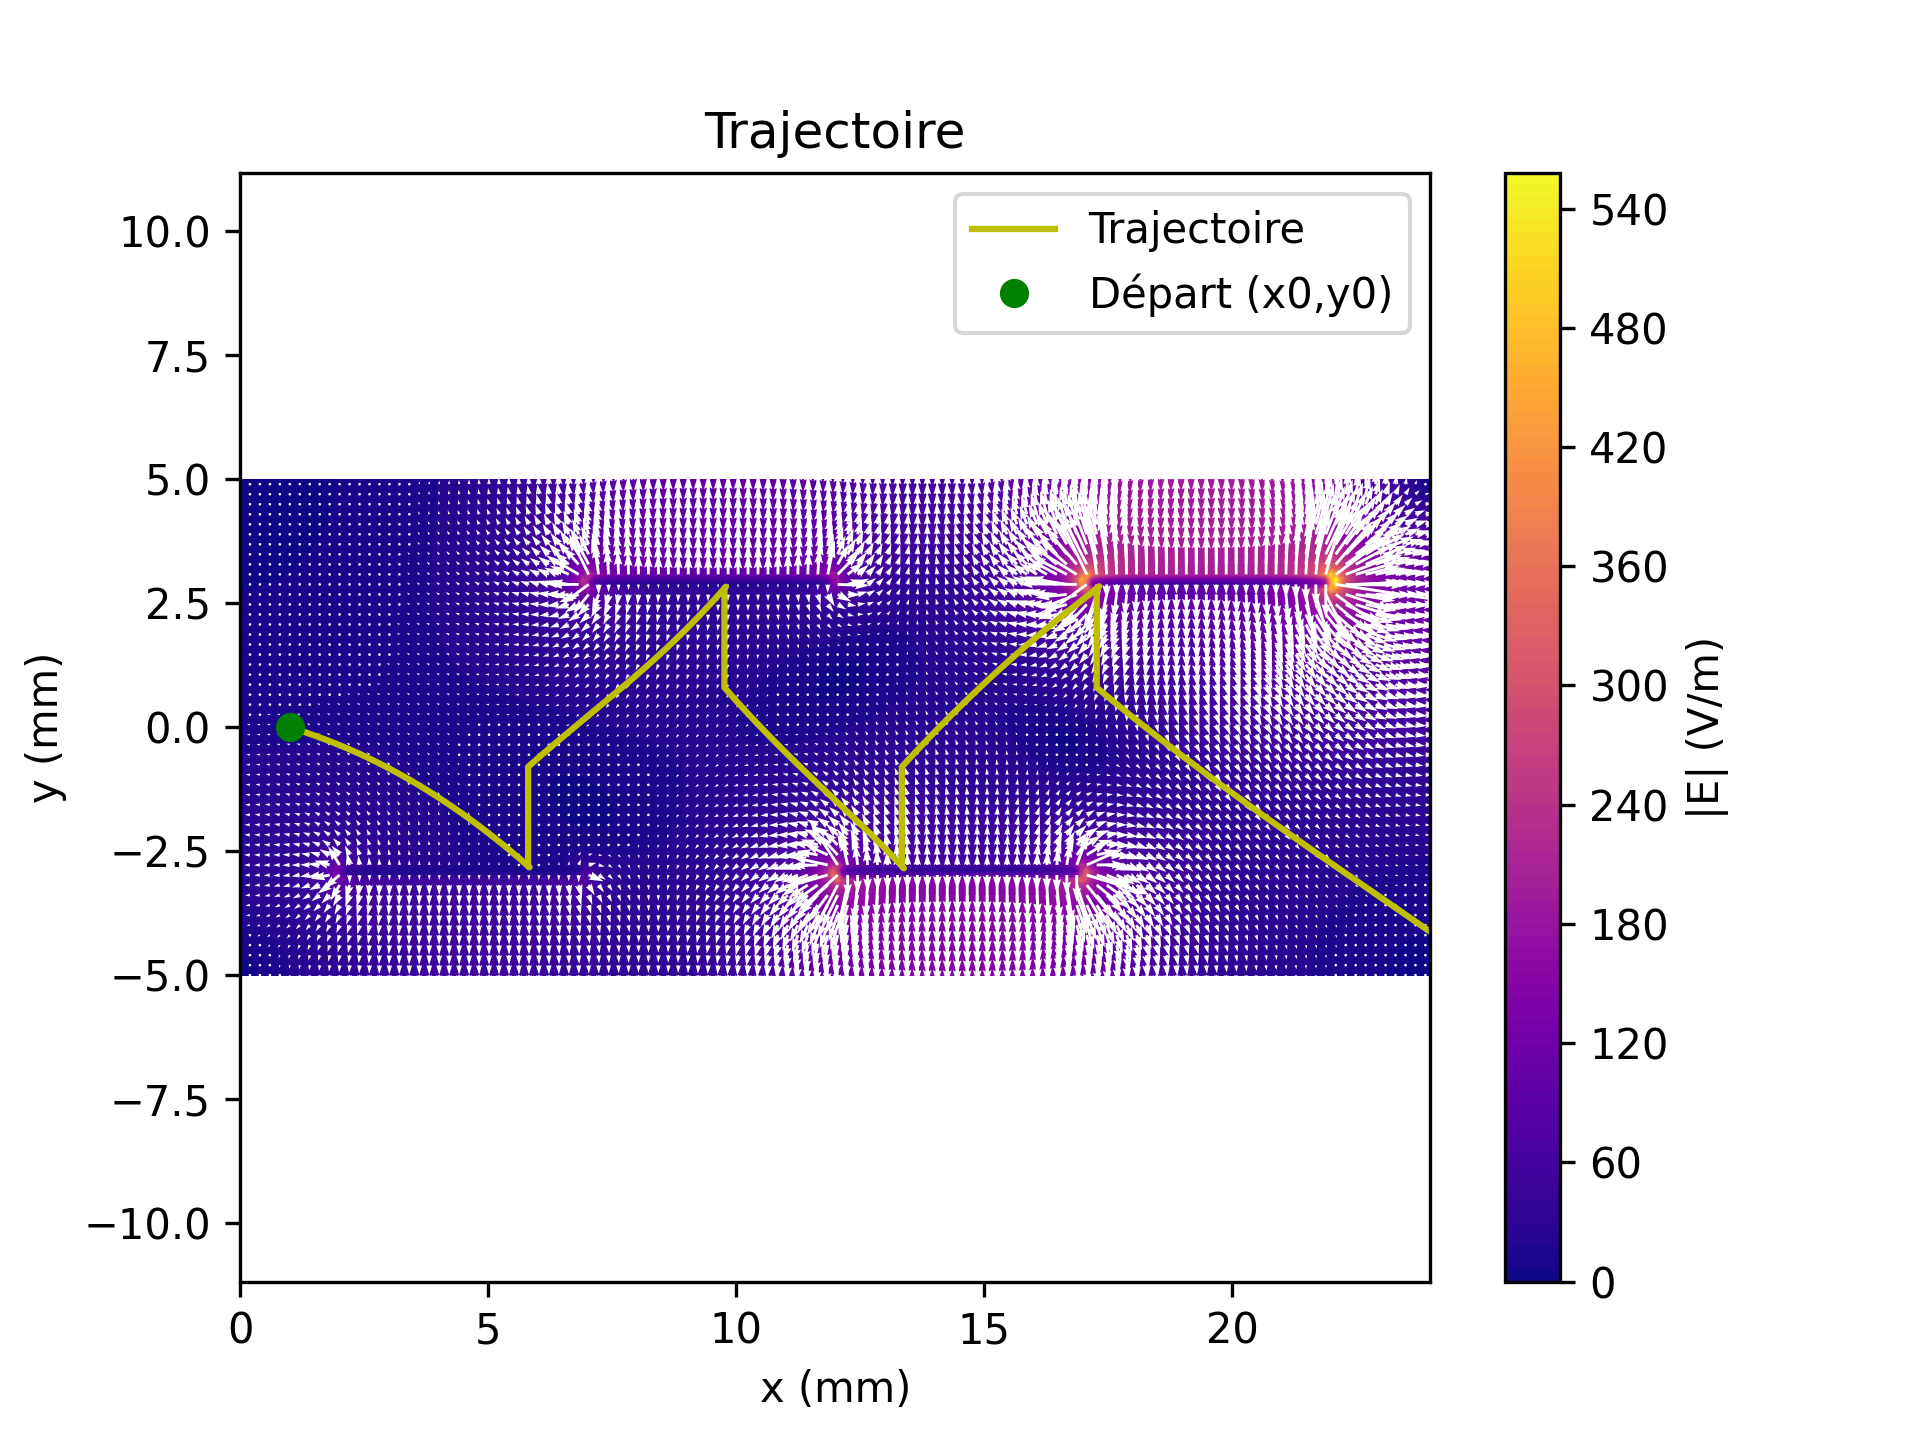
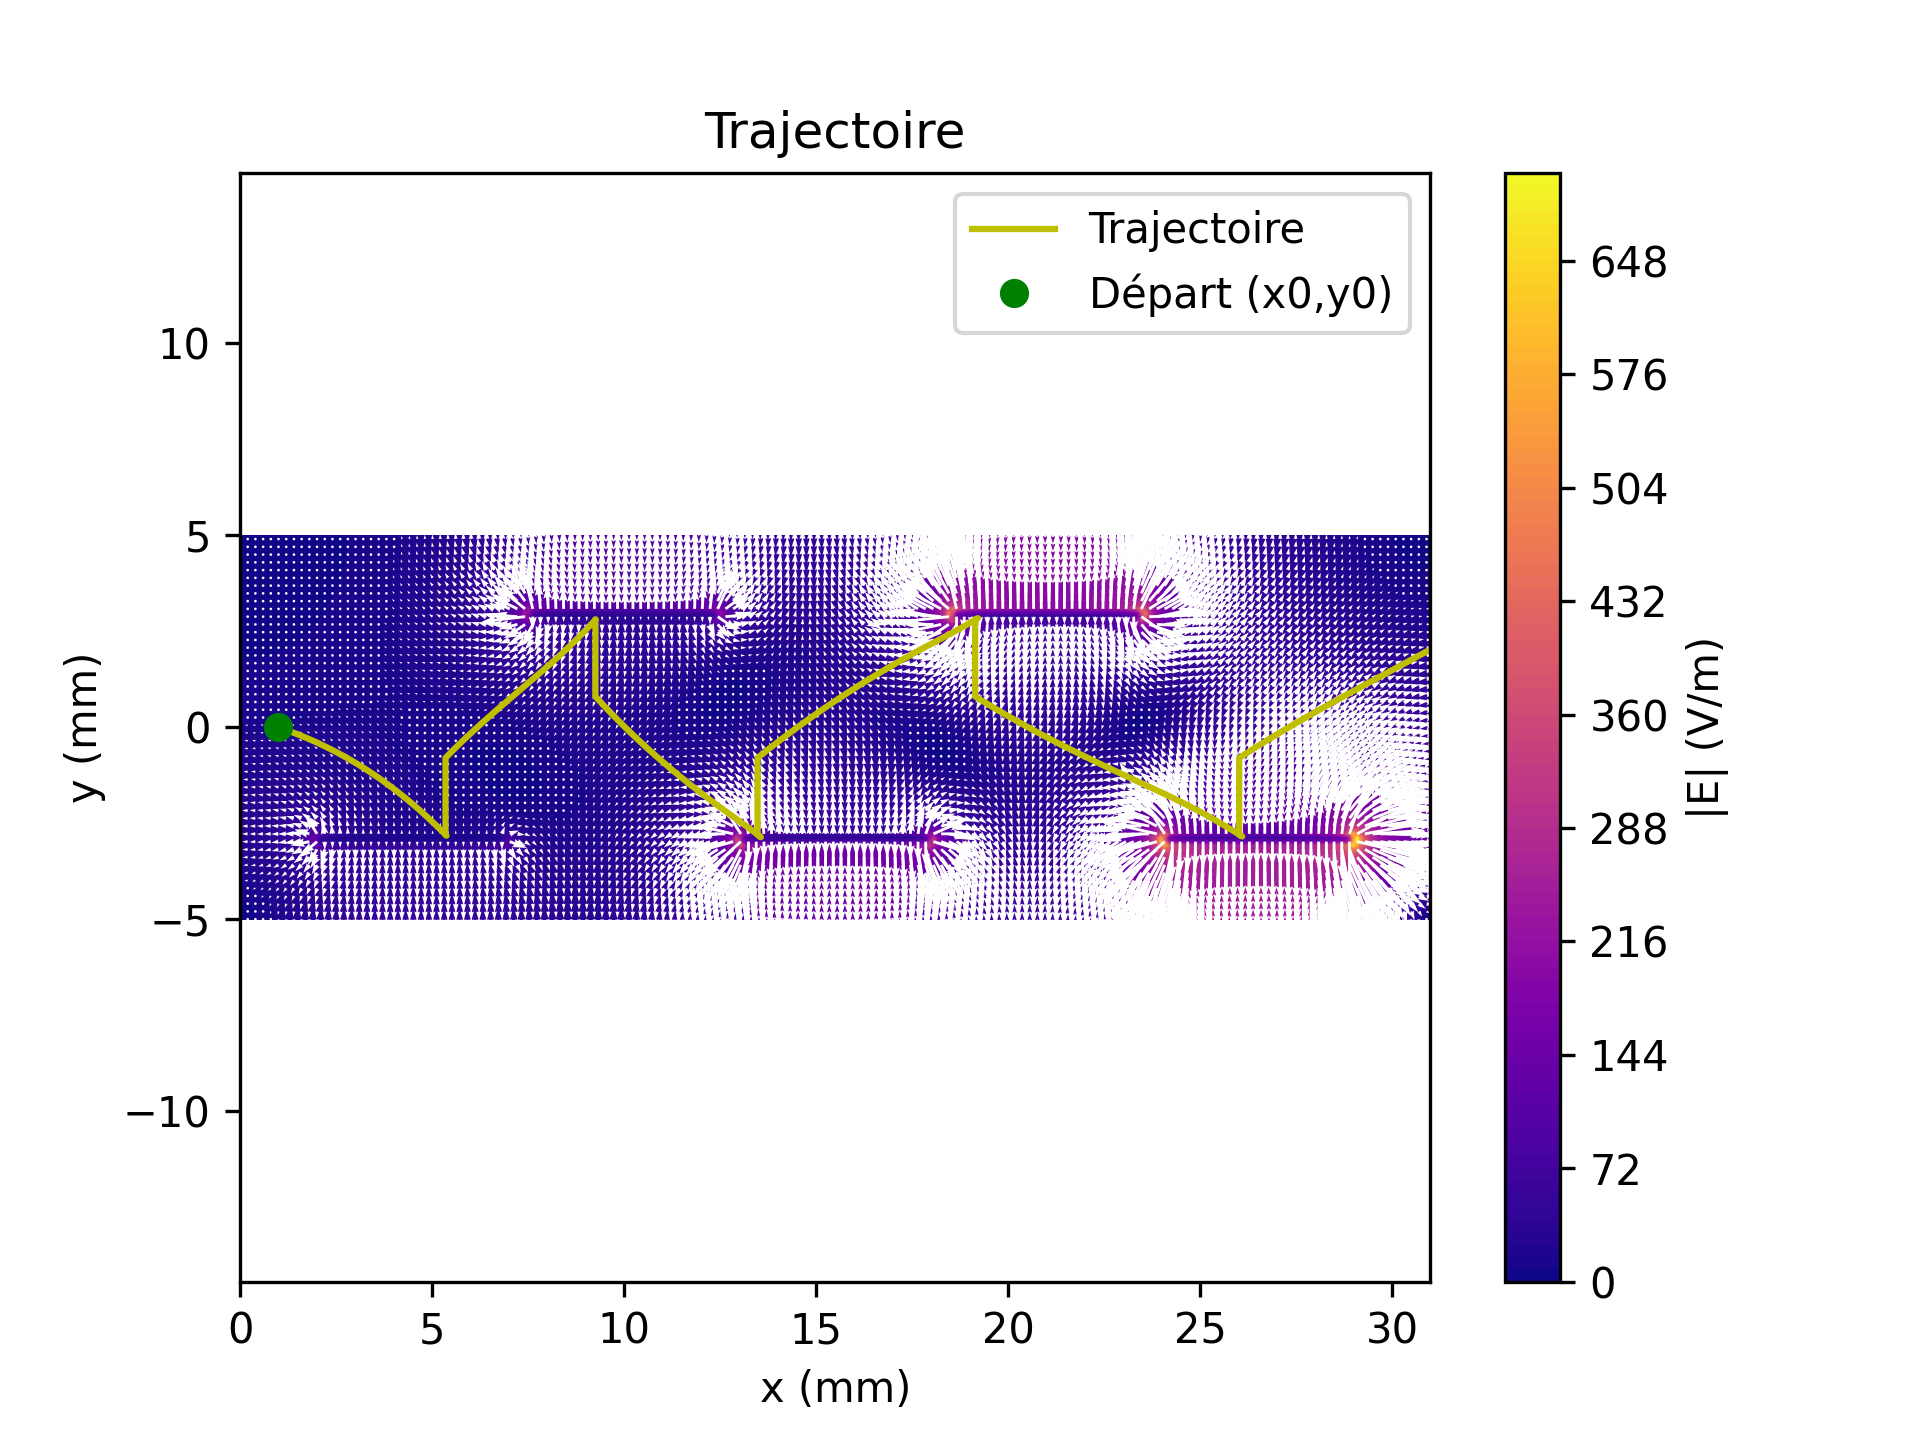
Le code est ood. il faut juste faire approuver

diff --git a/question3c.py b/question3c.py
@@ -1,6 +1,6 @@
 import numpy as np
 import matplotlib.pyplot as plt
-from matplotlib import animation
+#from matplotlib import animation
 
 
 
@@ -48,8 +48,8 @@ def placer_dynodes_bas(V, bloqué):
 def placer_dynodes_haut(V, bloqué):
     for i in range(N//2):
         pot_dyn = (2*(i+1)) * 100
-        vert_start = f-b-e #coordonnée verticale du début de la dynode
-        vert_end = vert_start + e # la fin
+        vert_start = f-b #coordonnée verticale du début de la dynode
+        vert_end = vert_start - e # la fin
         horiz_start = a + (i+1)*c +d/2 + i*d - c/2 #coordonnée horizontale du début de la dynode
         horiz_end = horiz_start + c # fin
 
@@ -118,7 +118,7 @@ def Eulerer_lechamp(x, y, Ex, Ey, dx):
 
 # ------------POsitionner les dynodes du haut et celles du bas avec leur valeur de potentiel ------#
 
-def position_dynodes_bas(i, a=2, b=2, c=5, d=5, e=0.2, f=10):
+def position_dynodes_bas(i, a=2, b=2, c=5, d=6, e=0.2, f=10):
     #dynodes_bas = []
     vert_start = -f*0.5 + b #coordonnée verticale du début de la dynode
     vert_end = vert_start + e # la fin
@@ -129,7 +129,7 @@ def position_dynodes_bas(i, a=2, b=2, c=5, d=5, e=0.2, f=10):
     return [vert_start, vert_end, horiz_start, horiz_end, pot]
 
 
-def position_dynodes_haut(i, a=2, b=2, c=5, d=5, e=0.2, f=10):
+def position_dynodes_haut(i, a=2, b=2, c=5, d=6, e=0.2, f=10):
     #dynodes_haut = []
     vert_start = f*0.5 - b #coordonnée verticale du début de la dynode
     vert_end = vert_start - e # la fin
@@ -146,8 +146,8 @@ def position_dynodes_haut(i, a=2, b=2, c=5, d=5, e=0.2, f=10):
 
 
 def contact_dyn_bas(x_new, y_new, x_old, y_old):
-    a, b, c, d, e, f = 2, 2, 5 ,5 ,0.2, 10
-    N = 4
+    a, b, c, d, e, f = 2, 2, 5 ,6 ,0.2, 10
+    N = 5
     # Juste pour être sûr d,avoir les bonnes dimensions
 
     if -f/2 < y_new < 0 and 0 < x_new < (2*a + (N+1)*(c/2) + (N-1)*(d/2)):
@@ -165,10 +165,10 @@ def contact_dyn_bas(x_new, y_new, x_old, y_old):
                 if x_new <= dynodes_bas[3] and x_old >= dynodes_bas[2]:
                     # Regarde si le point en x est au milieu d'une dynode
 
-                        x_dyn = (dynodes_bas[1] - y_initiale)/pente # Trouve le x en haut de la dynode
-                        y_dyn = dynodes_bas[1] # on remet le y à la hauteur centrale de la dynode
+                    x_dyn = (dynodes_bas[1] - y_initiale)/pente # Trouve le x en haut de la dynode
+                    y_dyn = dynodes_bas[1] # on remet le y à la hauteur centrale de la dynode
 
-                        return [True, x_dyn, y_dyn] # Retourne la nouvelle position et True
+                    return [True, x_dyn, y_dyn] # Retourne la nouvelle position et True
                 
                 if x_new >= dynodes_bas[2] and x_old <= dynodes_bas[2]:
                     # Regarde si la pente passe à gauche de la dynode
